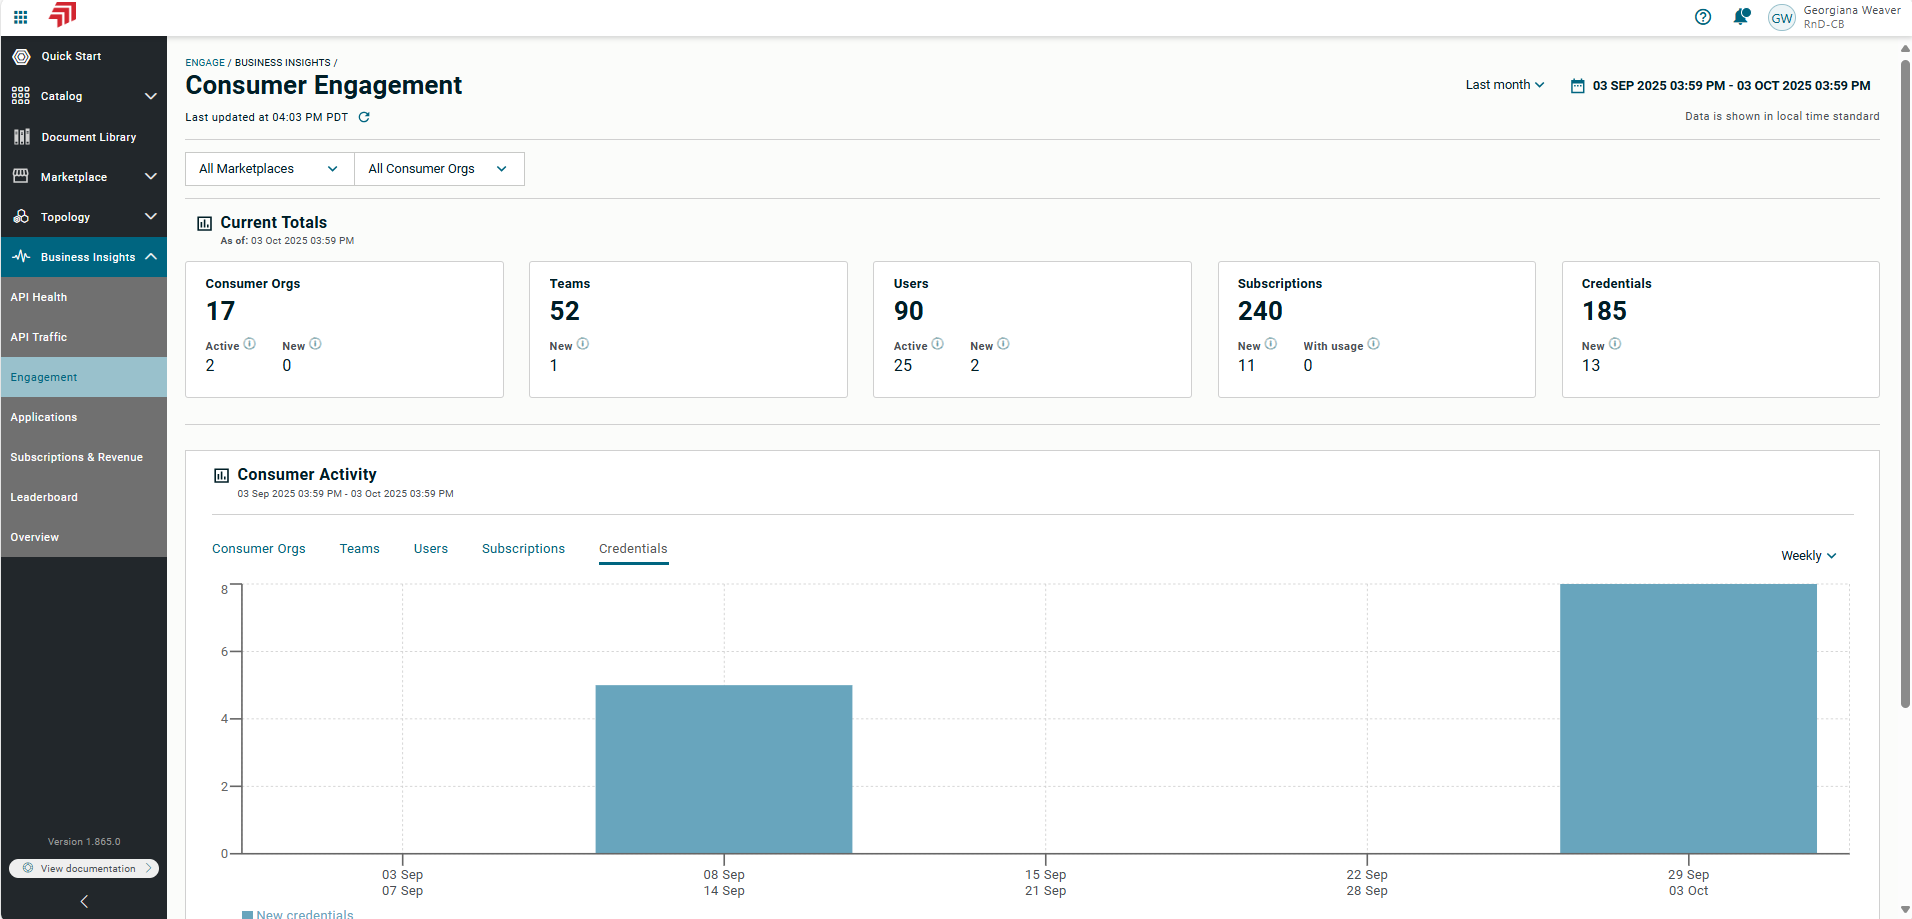
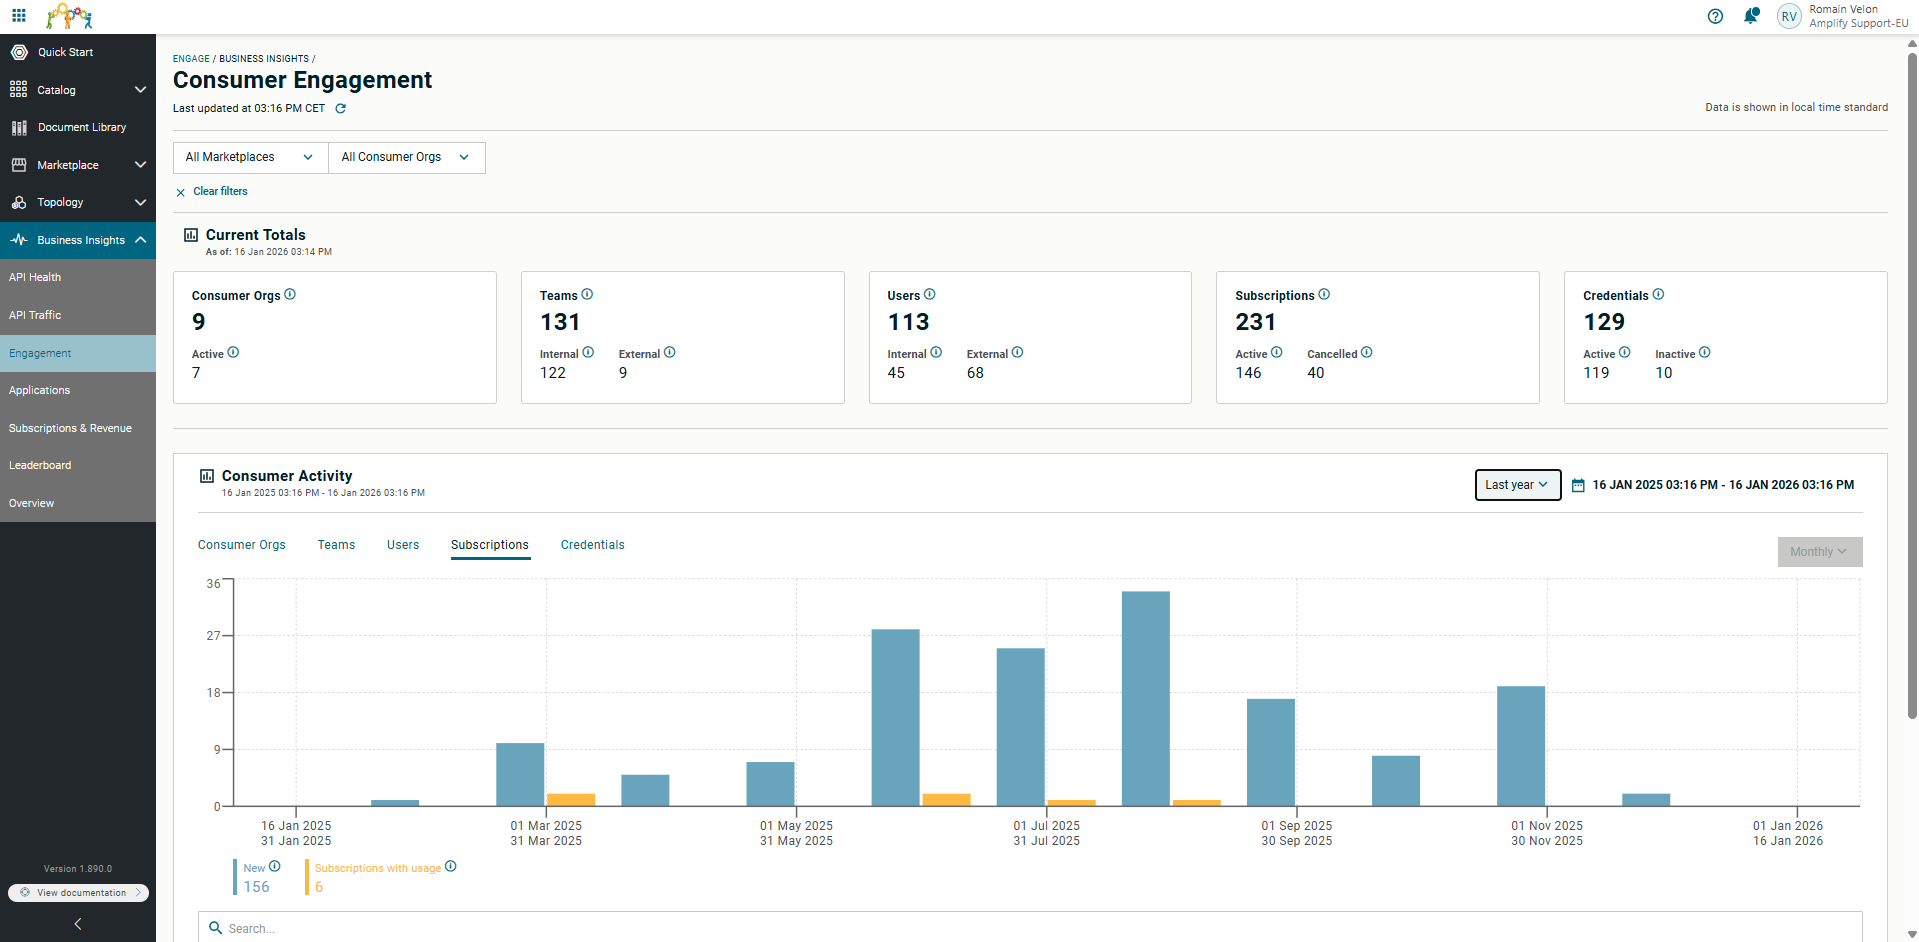
A7S-656 update consumer engagement doc after 2026-01-16 release  (#790)
* update consumer engagement doc after 2026-01-16 release

* add consumer activity details in business insights/consumer engagement

* fix linter

* ignore idea files

diff --git a/content/en/docs/get_actionable_insights/consumer_engagement.md b/content/en/docs/get_actionable_insights/consumer_engagement.md
@@ -22,11 +22,11 @@ The dashboard is organized into two main sections:
 
 The Consumer Engagement dashboard is visible to the following roles:
 
-| Role                | Description                                                                                                                                       |
-| ------------------------| ------------------------------------------------------------------------------------------------------------------------------------------------- |
-| **Engage Admin**    | Can view engagement metrics across all Consumer Organizations and Marketplaces.   |
-| **Catalog Manager** | Can view engagement metrics to Marketplaces they have access to. They can see subscription metrics for products their team owns.   |
-| **Insights Viewer** | Can view engagement metrics to Marketplaces they have access to. They can see subscription metrics for products their team owns.   |
+| Role                | Description                                                                                                                      |
+|---------------------|----------------------------------------------------------------------------------------------------------------------------------|
+| **Engage Admin**    | Can view engagement metrics across all Consumer Organizations and Marketplaces.                                                  |
+| **Catalog Manager** | Can view engagement metrics to Marketplaces they have access to. They can see subscription metrics for products their team owns. |
+| **Insights Viewer** | Can view engagement metrics to Marketplaces they have access to. They can see subscription metrics for products their team owns. |
 
 ## Filtering options
 
@@ -44,31 +44,31 @@ A snapshot of the total counts across consumer organizations, teams, users, subs
 Metrics include:
 
 * **Consumer Orgs**: Total consumer organizations currently available in the selected Marketplaces you have access to, including your platform organization.
-* **Active**: Organization with active user sessions in the selected time interval.
-* **New**: Newly created consumer organization in the selected time interval.
+* **Active**: Total consumer organizations that have not been disabled.
 
 ### Teams
 
 Metrics include:
 
-* **Teams**: Total number of teams currently available in the consumer organizations you have access to.
-* **New**: Newly created teams within the selected time range.
+* **Teams**: Total number of teams currently available.
+* **Internal**: Total number of teams currently available in the provider organization you have access to.
+* **External**: Total number of teams currently available in consumer organizations you have access to.
 
 ### Users
 
 Metrics include:
 
 * **Users**: Total unique users.
-* **Active**: Users with active sessions within the selected time range.
-* **New**: Newly invited users within the selected time range.
+* **Internal**: Users within the provider organization.
+* **External**: Users within consumer organizations.
 
 ### Subscriptions
 
 Metrics include:
 
 * **Subscriptions**: Total subscriptions currently available to products in the owning team the user belongs to.
-* **New**: Created during the selected time range. Includes deleted subscriptions for Engage Admin users.
-* **Subscriptions with usage**: Within the selected time range.
+* **Active**: Active subscriptions currently available to products in the owning team the user belongs to.
+* **Cancelled**: Archived subscriptions currently available to products in the owning team the user belongs to.
 
 Engage Admins see all subscriptions in the organization, but Catalog Managers and Insights Viewer assignees can view only subscriptions for products owned by their team.
 
@@ -76,8 +76,9 @@ Engage Admins see all subscriptions in the organization, but Catalog Managers an
 
 Metrics include:
 
-* **Credentials**: Total credentials available across the consumer organization the user has access to.
-* **New**: Newly created credentials within the selected time range.
+* **Credentials**: Total credentials.
+* **Active**: Active credentials.
+* **Inactive**: Inactive credentials.
 
 This card is visible only to Engage Admin assignees.
 
@@ -90,5 +91,30 @@ In the chart you can visualize the level of engagement across all selected Consu
 * Review total activities for the chosen timeframe.
 * Use the granularity filter to display results by week or month.
 * Identify trends such as spikes in product adoptions or top performing consumers.
+
+### Consumer Orgs tab
+
+* **New**: New consumer organizations created within the selected date range.
+* **Active**: Organizations with active user sessions within the selected date range.
+
+### Teams tab
+
+* **New**: New teams created within the selected date range.
+
+### Users tab
+
+* **New**: Newly invited users within the selected date range.
+* **Active**: Unique active users within the selected date range.
+
+### Subscriptions tab
+
+* **New**: New subscriptions created within the selected date range.
+* **Subscriptions with usage**: Unique subscriptions with reported metrics within the selected date range.
+
+### Credentials tab
+
+* **New**: New credentials created within the selected date range.
+
+### Table view
 
 In the table, you can examine the same activity data broken down per consumer organization.
